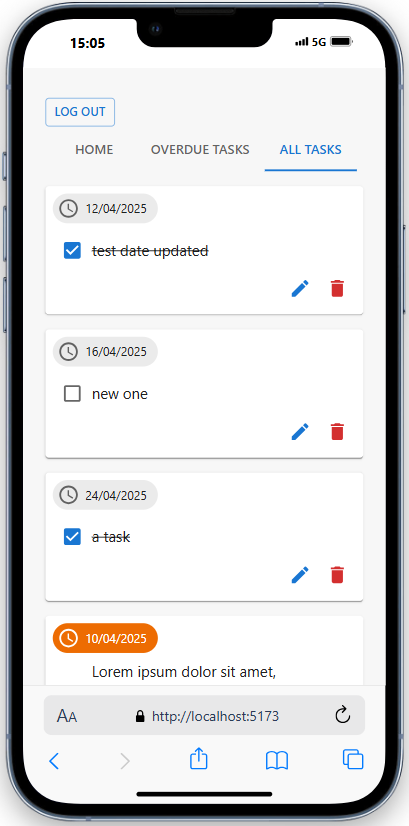
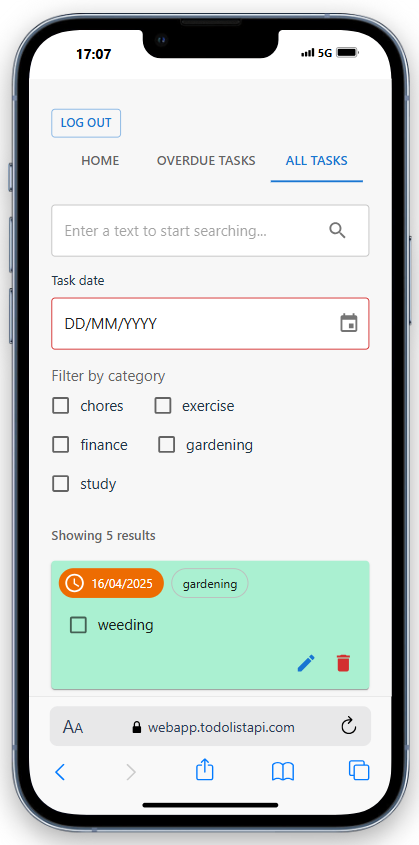
update README

diff --git a/README.md b/README.md
@@ -6,12 +6,19 @@ This project is a full-stack application built with `MongoDB, Express, React and
 The purpose of this project is to serve as a training to get familiar with those technologies.
 
 ## Features
-### Users can Sign Up or Log in
-<img src="./docs/signup.png" alt="signup" height="350"><img src="./docs/mobile-signup.png" alt="mobile-signup" height="350">
+### User can Log in
+<img src="./docs/login.png" alt="signup" height="350"><img src="./docs/mobile-login.png" alt="mobile-signup" height="350">
 
-### Users can only view and modify their own tasks
+### User can only view and update their own tasks
 <img src="./docs/todolist.png" alt="todolist" height="350"><img src="./docs/mobile-todolist.png" alt="mobile-todolist" height="350">
 
+### User can create new tasks
+<img src="./docs/create-task.png" alt="create-task" height="350"><img src="./docs/mobile-create-task.png" alt="mobile-create-task" height="350">
+
+### User can create a new category of task
+<img src="./docs/create-category.png" alt="create-category" height="350"><img src="./docs/mobile-create-category.png" alt="mobile-create-category" height="350">
+
+### User view all tasks and filter results
 <img src="./docs/all-tasks.png" alt="all-tasks" height="350"><img src="./docs/mobile-all-tasks.png" alt="mobile-all-tasks" height="350">
 
 
